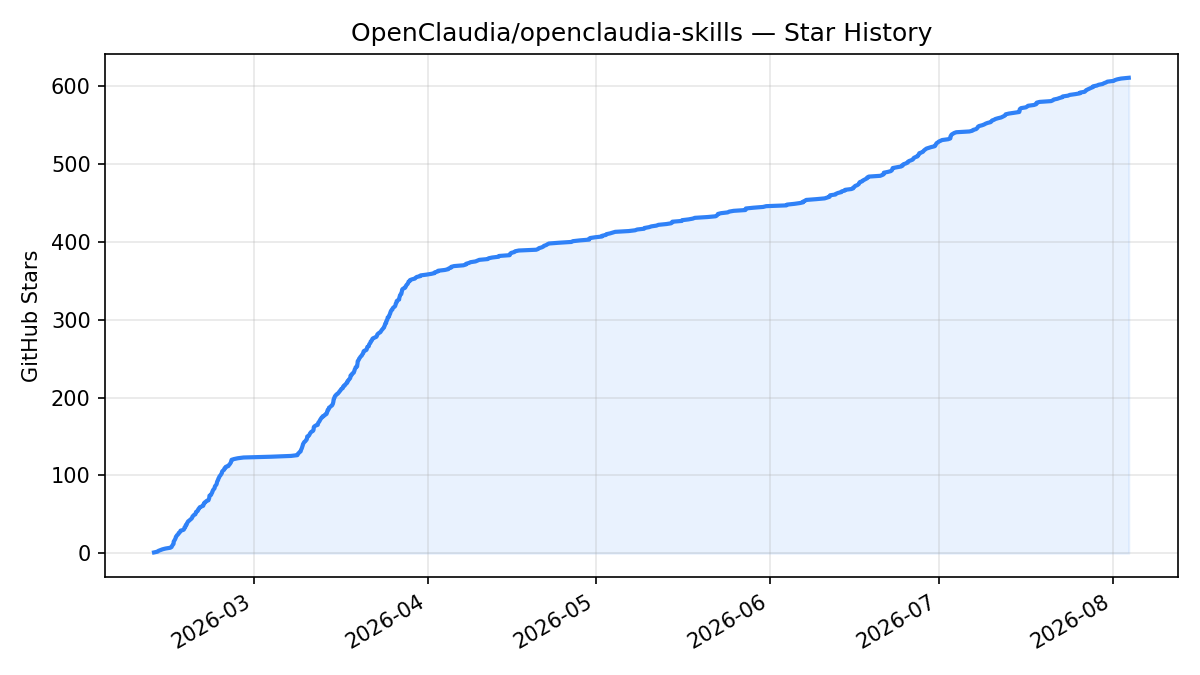
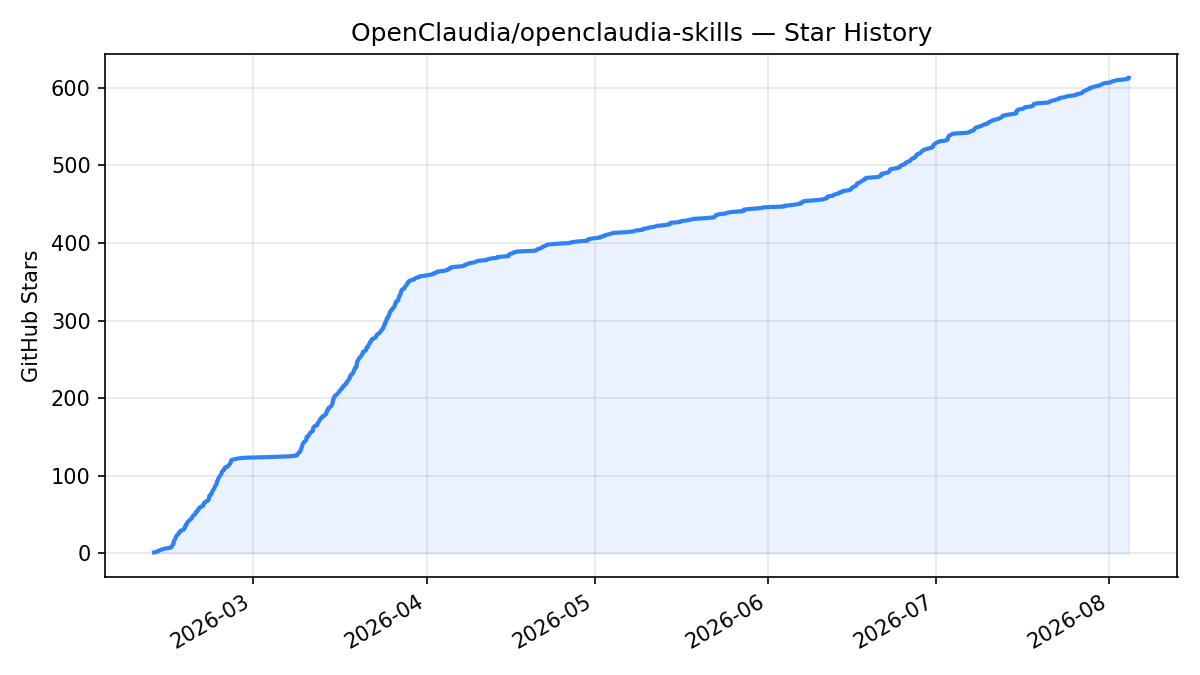
readme: refresh star chart (613 stars)

diff --git a/README.md b/README.md
@@ -327,7 +327,7 @@ MIT — see [LICENSE](LICENSE)
 
 ![Star History Chart](assets/star-history.png)
 
-<sub>Updated 2026-08-03. GitHub [restricted the stargazers API](https://github.blog/changelog/2026-06-30-upcoming-access-restrictions-to-public-api-endpoints-and-ui-views/) in June 2026, so the live star-history.com badge no longer renders; this chart is generated from the repo's own star data.</sub>
+<sub>Updated 2026-08-04. GitHub [restricted the stargazers API](https://github.blog/changelog/2026-06-30-upcoming-access-restrictions-to-public-api-endpoints-and-ui-views/) in June 2026, so the live star-history.com badge no longer renders; this chart is generated from the repo's own star data.</sub>
 
 ---
 
